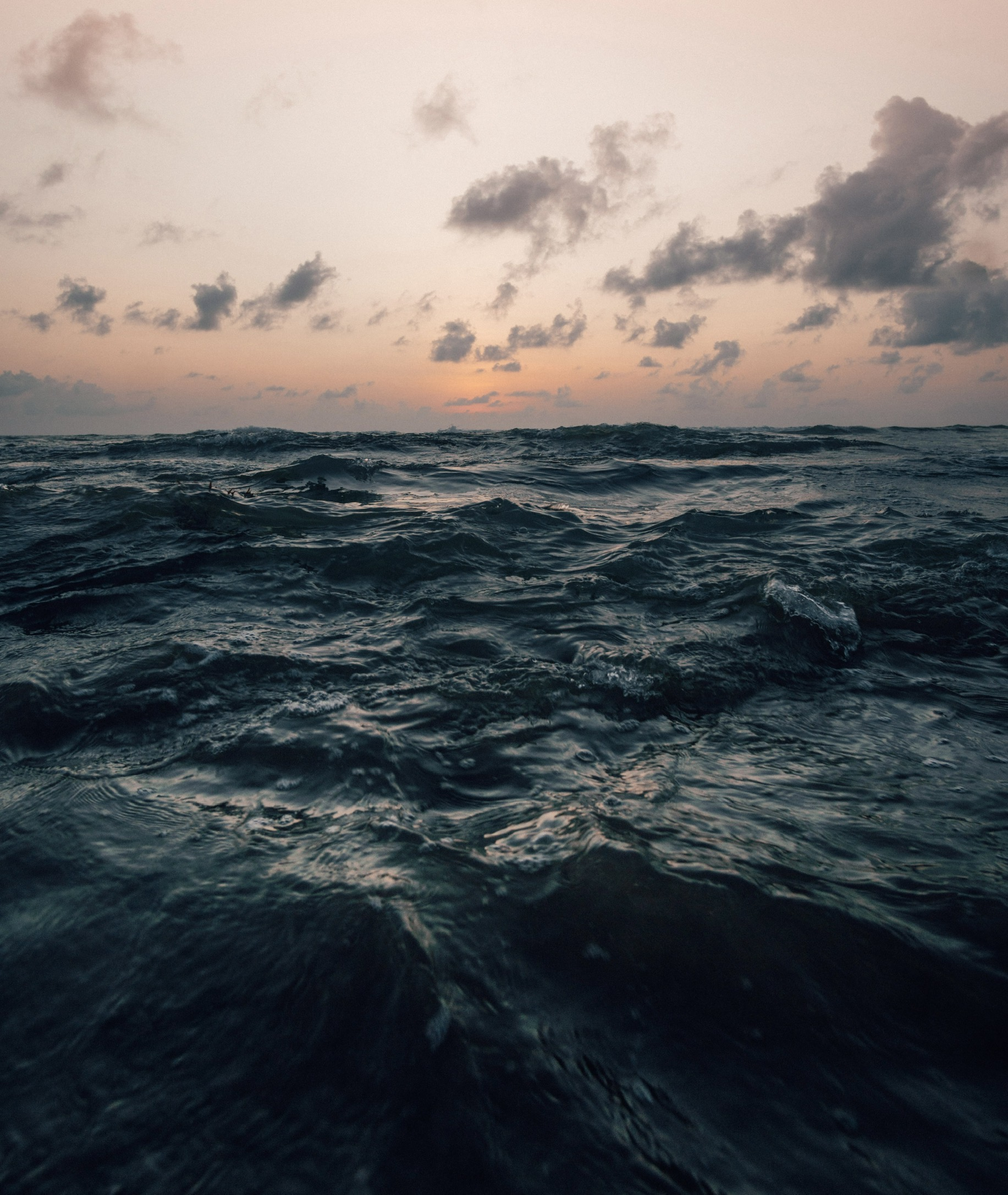
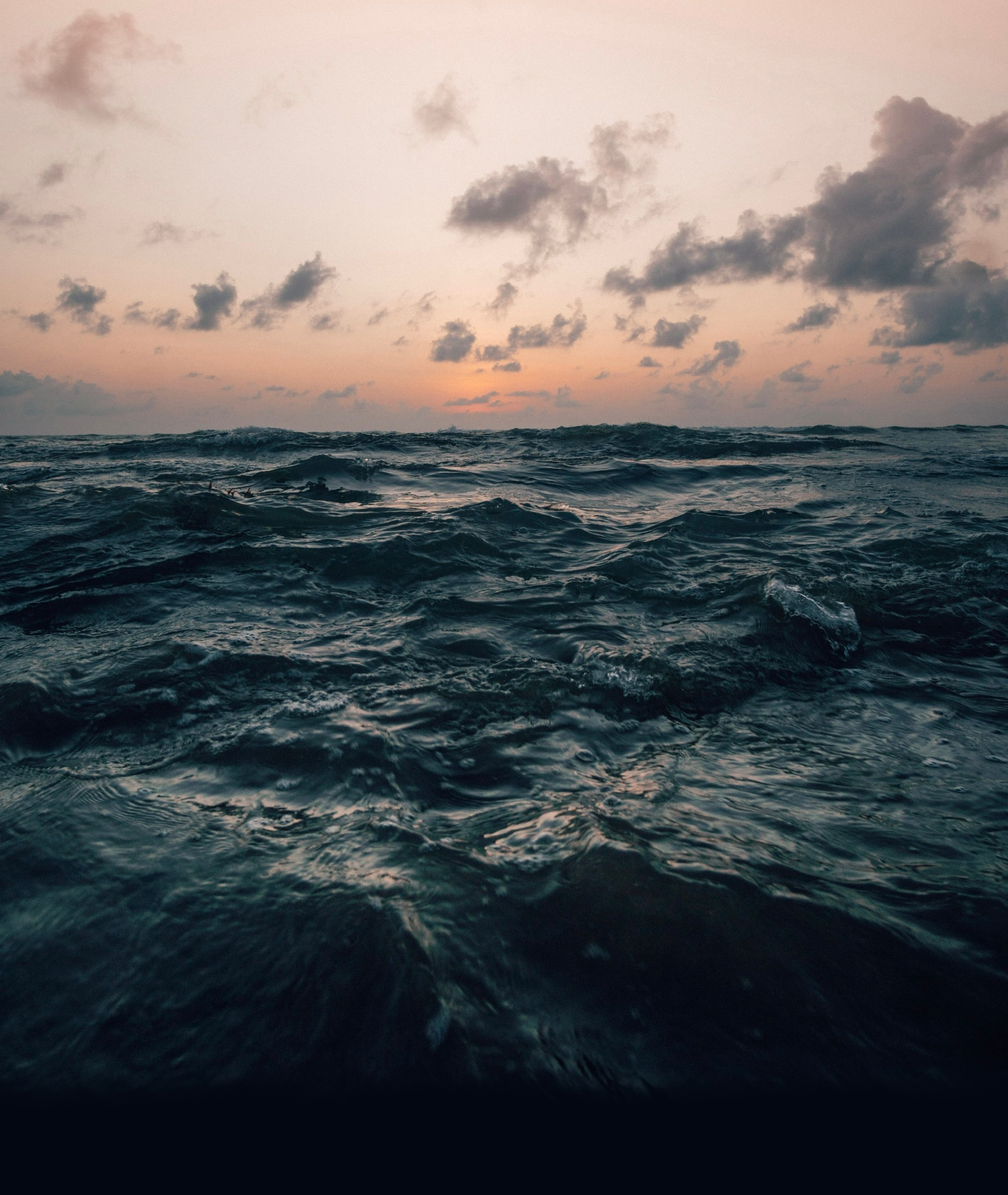
Updated background image and nav z-index

diff --git a/resources/css/index.css b/resources/css/index.css
@@ -4,12 +4,14 @@
         height: 100%;
         margin: 0;
         background-image: url(../images/background.jpg);
+        background-color: #030711;
         background-repeat: no-repeat;
         background-size: cover;
         font-family: Andale Mono, monospace;
     }
     
     nav {
+        z-index: 1;
         text-align: center;
         background-color: #777777;
         box-shadow: 1px 1px 20px 5px rgb(62, 62, 62);
